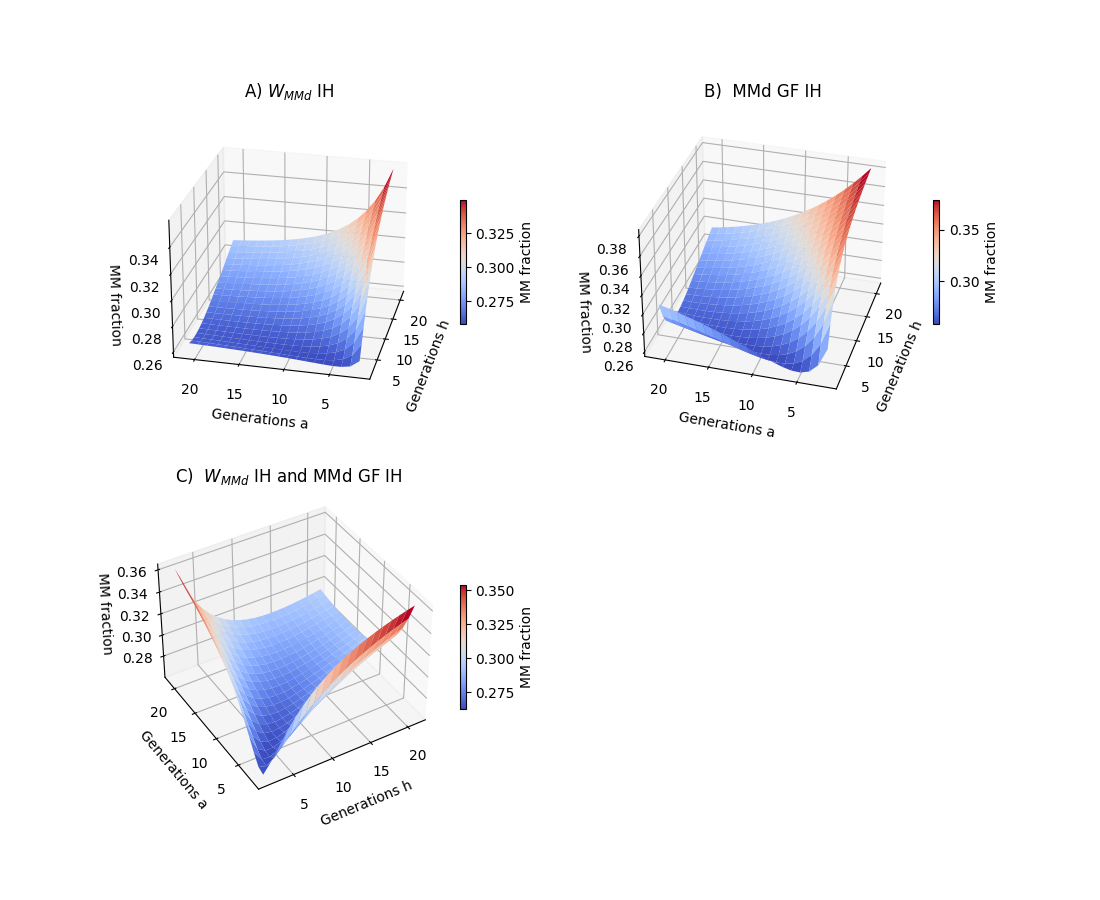
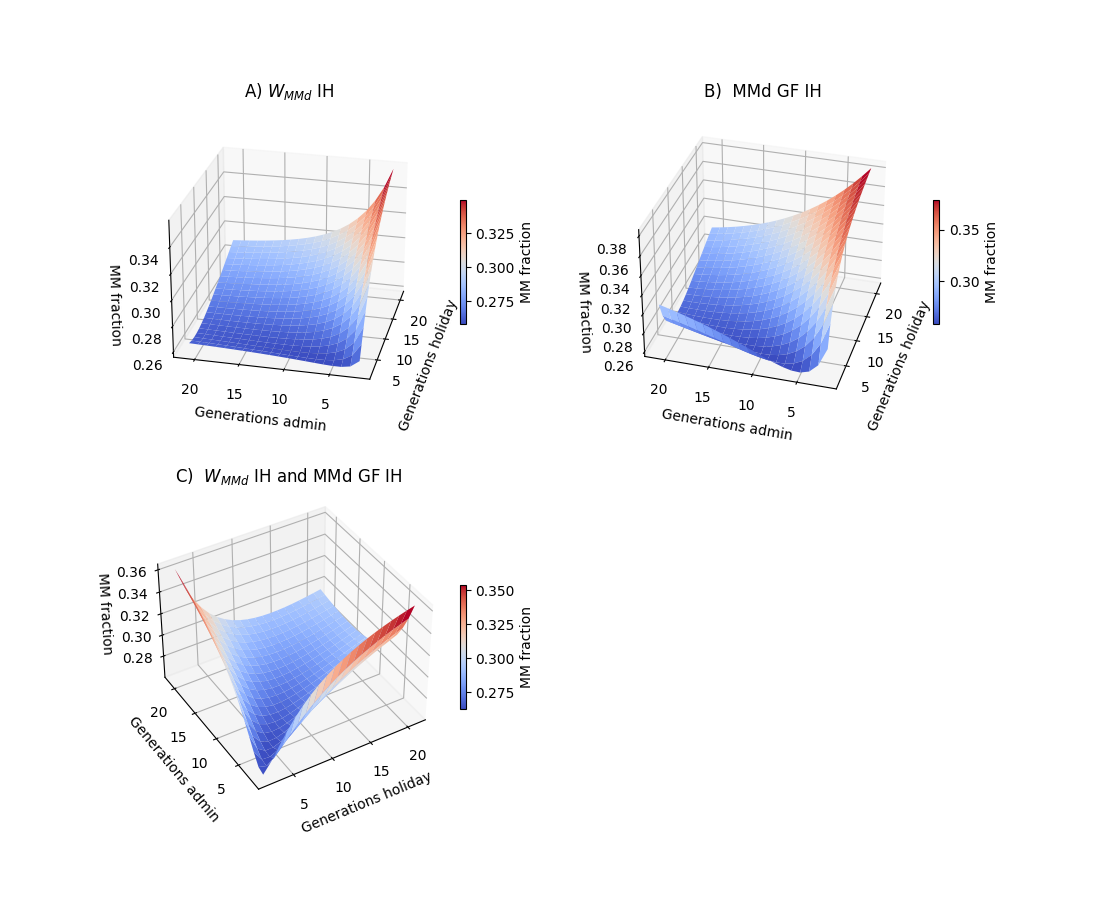
axes titles

diff --git a/code/MM_model_nr_IH_inf.py b/code/MM_model_nr_IH_inf.py
@@ -39,7 +39,7 @@ import doctest
 def main():
     # Do doc tests
     doctest.testmod()
-    
+
     # Make a figure showing the cell number dynamics by traditional therapy and
     # by adaptive therapy (original situation)
     list_t_steps_drug = [10, 10, 10]
@@ -4202,8 +4202,8 @@ def Figure_3D_MM_numb_IH_add_and_holiday():
             surf = ax.plot_surface(X_W_IH, Y_W_IH, Z_W_IH, cmap='coolwarm')
 
             # Add labels
-            ax.set_ylabel('Generations a')
-            ax.set_xlabel('Generations h')
+            ax.set_ylabel('Generations admin')
+            ax.set_xlabel('Generations holiday')
             ax.set_zlabel('MM number')
             ax.set_title(r'A) $W_{MMd}$ IH', pad=10)
 
@@ -4218,8 +4218,8 @@ def Figure_3D_MM_numb_IH_add_and_holiday():
             surf = ax.plot_surface(X_GF_IH, Y_GF_IH, Z_GF_IH, cmap = 'coolwarm')
 
             # Add labels
-            ax.set_ylabel('Generations a')
-            ax.set_xlabel('Generations h')
+            ax.set_ylabel('Generations admin')
+            ax.set_xlabel('Generations holiday')
             ax.set_zlabel('MM number')
             ax.set_title('B)  MMd GF IH', pad=10)
 
@@ -4235,8 +4235,8 @@ def Figure_3D_MM_numb_IH_add_and_holiday():
             surf = ax.plot_surface(X_comb, Y_comb, Z_comb, cmap = 'coolwarm')
 
             # Add labels
-            ax.set_ylabel('Generations a')
-            ax.set_xlabel('Generations h')
+            ax.set_ylabel('Generations admin')
+            ax.set_xlabel('Generations holiday')
             ax.set_zlabel('MM number')
             ax.set_title('C)  IH combination', pad=10)
 

diff --git a/code/MM_model_nr_to_frac.py b/code/MM_model_nr_to_frac.py
@@ -1580,8 +1580,8 @@ def Figure_3D_MM_nr_to_frac_IH_add_and_holiday():
             surf = ax.plot_surface(X_W_IH, Y_W_IH, Z_W_IH, cmap='coolwarm')
 
             # Add labels
-            ax.set_ylabel('Generations a')
-            ax.set_xlabel('Generations h')
+            ax.set_ylabel('Generations admin')
+            ax.set_xlabel('Generations holiday')
             ax.set_zlabel('MM fraction')
             ax.set_title(r'A) $W_{MMd}$ IH', pad=10)
 
@@ -1596,8 +1596,8 @@ def Figure_3D_MM_nr_to_frac_IH_add_and_holiday():
             surf = ax.plot_surface(X_GF_IH, Y_GF_IH, Z_GF_IH, cmap = 'coolwarm')
 
             # Add labels
-            ax.set_ylabel('Generations a')
-            ax.set_xlabel('Generations h')
+            ax.set_ylabel('Generations admin')
+            ax.set_xlabel('Generations holiday')
             ax.set_zlabel('MM fraction')
             ax.set_title('B)  MMd GF IH', pad=10)
 
@@ -1613,8 +1613,8 @@ def Figure_3D_MM_nr_to_frac_IH_add_and_holiday():
             surf = ax.plot_surface(X_comb, Y_comb, Z_comb, cmap = 'coolwarm')
 
             # Add labels
-            ax.set_ylabel('Generations a')
-            ax.set_xlabel('Generations h')
+            ax.set_ylabel('Generations admin')
+            ax.set_xlabel('Generations holiday')
             ax.set_zlabel('MM fraction')
             ax.set_title('C)  $W_{MMd}$ IH and MMd GF IH', pad=10)
 

diff --git a/code/MM_model_nr_to_frac_IH_inf.py b/code/MM_model_nr_to_frac_IH_inf.py
@@ -3275,8 +3275,8 @@ def Figure_3D_MM_nr_to_frac_IH_add_and_holiday():
             surf = ax.plot_surface(X_W_IH, Y_W_IH, Z_W_IH, cmap='coolwarm')
 
             # Add labels
-            ax.set_ylabel('Generations a')
-            ax.set_xlabel('Generations h')
+            ax.set_ylabel('Generations admin')
+            ax.set_xlabel('Generations holiday')
             ax.set_zlabel('MM fraction')
             ax.set_title(r'A) $W_{MMd}$ IH', pad=10)
 
@@ -3291,8 +3291,8 @@ def Figure_3D_MM_nr_to_frac_IH_add_and_holiday():
             surf = ax.plot_surface(X_GF_IH, Y_GF_IH, Z_GF_IH, cmap = 'coolwarm')
 
             # Add labels
-            ax.set_ylabel('Generations a')
-            ax.set_xlabel('Generations h')
+            ax.set_ylabel('Generations admin')
+            ax.set_xlabel('Generations holiday')
             ax.set_zlabel('MM fraction')
             ax.set_title('B)  MMd GF IH', pad=10)
 
@@ -3308,8 +3308,8 @@ def Figure_3D_MM_nr_to_frac_IH_add_and_holiday():
             surf = ax.plot_surface(X_comb, Y_comb, Z_comb, cmap = 'coolwarm')
 
             # Add labels
-            ax.set_ylabel('Generations a')
-            ax.set_xlabel('Generations h')
+            ax.set_ylabel('Generations admin')
+            ax.set_xlabel('Generations holiday')
             ax.set_zlabel('MM fraction')
             ax.set_title('C)  $W_{MMd}$ IH and MMd GF IH', pad=10)
 

diff --git a/code/MM_model_numbers.py b/code/MM_model_numbers.py
@@ -1512,8 +1512,8 @@ def Figure_3D_MM_numb_IH_add_and_holiday():
             surf = ax.plot_surface(X_W_IH, Y_W_IH, Z_W_IH, cmap='coolwarm')
 
             # Add labels
-            ax.set_ylabel('Generations a')
-            ax.set_xlabel('Generations h')
+            ax.set_ylabel('Generations admin')
+            ax.set_xlabel('Generations holiday')
             ax.set_zlabel('Number of MM')
             ax.set_title(r'A) $W_{MMd}$ IH', pad=10)
 
@@ -1528,8 +1528,8 @@ def Figure_3D_MM_numb_IH_add_and_holiday():
             surf = ax.plot_surface(X_GF_IH, Y_GF_IH, Z_GF_IH, cmap = 'coolwarm')
 
             # Add labels
-            ax.set_ylabel('Generations a')
-            ax.set_xlabel('Generations h')
+            ax.set_ylabel('Generations admin')
+            ax.set_xlabel('Generations holiday')
             ax.set_zlabel('Number of MM')
             ax.set_title('B)  MMd GF IH', pad=10)
 
@@ -1545,8 +1545,8 @@ def Figure_3D_MM_numb_IH_add_and_holiday():
             surf = ax.plot_surface(X_comb, Y_comb, Z_comb, cmap = 'coolwarm')
 
             # Add labels
-            ax.set_ylabel('Generations a')
-            ax.set_xlabel('Generations h')
+            ax.set_ylabel('Generations admin')
+            ax.set_xlabel('Generations holiday')
             ax.set_zlabel('Number of MM')
             ax.set_title('C)  $W_{MMd}$ IH and MMd GF IH', pad=10)
 

diff --git a/code/MM_model_fractions.py b/code/MM_model_fractions.py
@@ -1845,8 +1845,8 @@ def Figure_3D_MM_frac_IH_add_and_holiday():
             surf = ax.plot_surface(X_W_IH, Y_W_IH, Z_W_IH, cmap='coolwarm')
 
             # Add labels
-            ax.set_ylabel('Generations a')
-            ax.set_xlabel('Generations h')
+            ax.set_ylabel('Generations admin')
+            ax.set_xlabel('Generations holiday')
             ax.set_zlabel('MM fraction')
             ax.set_title(r'A) $W_{MMd}$ IH', pad=10)
 
@@ -1861,8 +1861,8 @@ def Figure_3D_MM_frac_IH_add_and_holiday():
             surf = ax.plot_surface(X_GF_IH, Y_GF_IH, Z_GF_IH, cmap = 'coolwarm')
 
             # Add labels
-            ax.set_ylabel('Generations a')
-            ax.set_xlabel('Generations h')
+            ax.set_ylabel('Generations admin')
+            ax.set_xlabel('Generations holiday')
             ax.set_zlabel('MM fraction')
             ax.set_title('B)  MMd GF IH', pad=10)
 
@@ -1878,8 +1878,8 @@ def Figure_3D_MM_frac_IH_add_and_holiday():
             surf = ax.plot_surface(X_comb, Y_comb, Z_comb, cmap = 'coolwarm')
 
             # Add labels
-            ax.set_ylabel('Generations a')
-            ax.set_xlabel('Generations h')
+            ax.set_ylabel('Generations admin')
+            ax.set_xlabel('Generations holiday')
             ax.set_zlabel('MM fraction')
             ax.set_title('C)  $W_{MMd}$ IH and MMd GF IH', pad=10)
 

diff --git a/code/MM_model_frac_IH_inf.py b/code/MM_model_frac_IH_inf.py
@@ -2417,8 +2417,8 @@ def Figure_3D_MM_frac_IH_add_and_holiday():
             surf = ax.plot_surface(X_W_IH, Y_W_IH, Z_W_IH, cmap='coolwarm')
 
             # Add labels
-            ax.set_ylabel('Generations a')
-            ax.set_xlabel('Generations h')
+            ax.set_ylabel('Generations admin')
+            ax.set_xlabel('Generations holiday')
             ax.set_zlabel('MM fraction')
             ax.set_title(r'A) $W_{MMd}$ IH', pad=10)
 
@@ -2433,8 +2433,8 @@ def Figure_3D_MM_frac_IH_add_and_holiday():
             surf = ax.plot_surface(X_GF_IH, Y_GF_IH, Z_GF_IH, cmap = 'coolwarm')
 
             # Add labels
-            ax.set_ylabel('Generations a')
-            ax.set_xlabel('Generations h')
+            ax.set_ylabel('Generations admin')
+            ax.set_xlabel('Generations holiday')
             ax.set_zlabel('MM fraction')
             ax.set_title('B)  MMd GF IH', pad=10)
 
@@ -2450,8 +2450,8 @@ def Figure_3D_MM_frac_IH_add_and_holiday():
             surf = ax.plot_surface(X_comb, Y_comb, Z_comb, cmap = 'coolwarm')
 
             # Add labels
-            ax.set_ylabel('Generations a')
-            ax.set_xlabel('Generations h')
+            ax.set_ylabel('Generations admin')
+            ax.set_xlabel('Generations holiday')
             ax.set_zlabel('MM fraction')
             ax.set_title('C)  IH combination', pad=10)
 

diff --git a/code/MM_model_nr_IH_inf_mutation.py b/code/MM_model_nr_IH_inf_mutation.py
@@ -4148,8 +4148,8 @@ def Figure_3D_MM_numb_IH_add_and_holiday():
             surf = ax.plot_surface(X_W_IH, Y_W_IH, Z_W_IH, cmap='coolwarm')
 
             # Add labels
-            ax.set_ylabel('Generations a')
-            ax.set_xlabel('Generations h')
+            ax.set_ylabel('Generations admin')
+            ax.set_xlabel('Generations holiday')
             ax.set_zlabel('MM number')
             ax.set_title(r'A) $W_{MMd}$ IH', pad=10)
 
@@ -4164,8 +4164,8 @@ def Figure_3D_MM_numb_IH_add_and_holiday():
             surf = ax.plot_surface(X_GF_IH, Y_GF_IH, Z_GF_IH, cmap = 'coolwarm')
 
             # Add labels
-            ax.set_ylabel('Generations a')
-            ax.set_xlabel('Generations h')
+            ax.set_ylabel('Generations admin')
+            ax.set_xlabel('Generations holiday')
             ax.set_zlabel('MM number')
             ax.set_title('B)  MMd GF IH', pad=10)
 
@@ -4181,8 +4181,8 @@ def Figure_3D_MM_numb_IH_add_and_holiday():
             surf = ax.plot_surface(X_comb, Y_comb, Z_comb, cmap = 'coolwarm')
 
             # Add labels
-            ax.set_ylabel('Generations a')
-            ax.set_xlabel('Generations h')
+            ax.set_ylabel('Generations admin')
+            ax.set_xlabel('Generations holiday')
             ax.set_zlabel('MM number')
             ax.set_title('C)  IH combination', pad=10)
 
